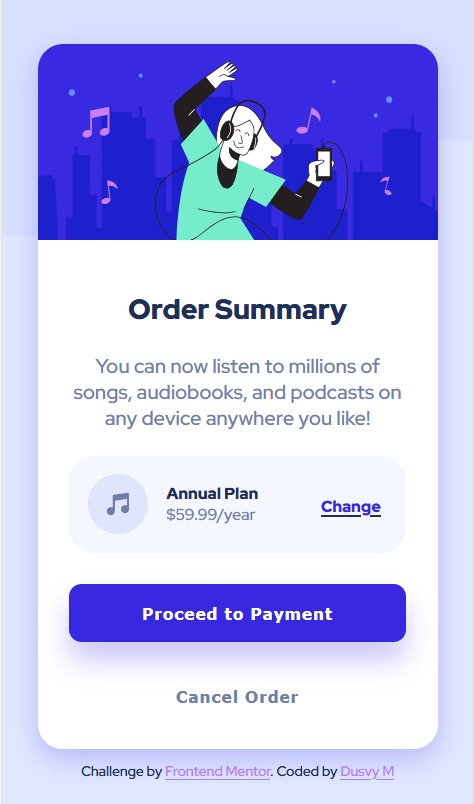
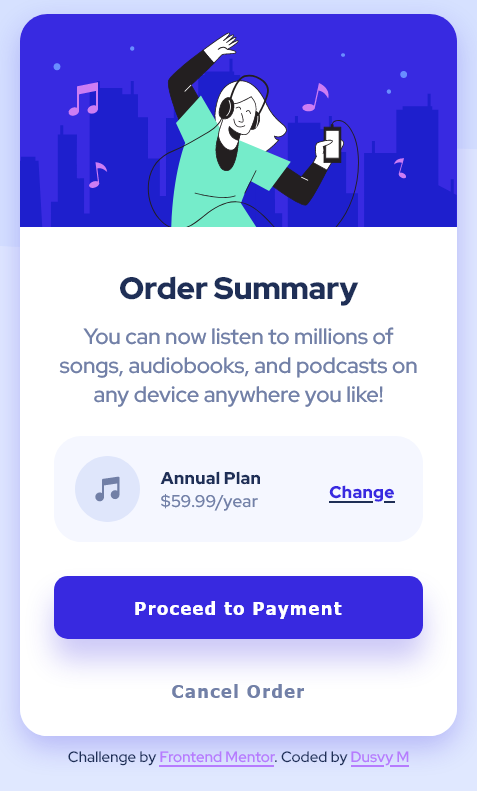
second changes

diff --git a/style.css b/style.css
@@ -31,7 +31,7 @@ body{
     font-family:var( --primary-font-family);
 }
 .card{
-    margin-top: 40px;
+    margin-top: 10px;
     display: flex;
     flex-direction: column;
     justify-content: center;
@@ -49,8 +49,8 @@ body{
     text-align: center;
 }
 .card-title{
-    padding-top:40px;
-    padding-bottom: 20px;
+    padding-top:30px;
+    padding-bottom: 10px;
     font-size: 1.5rem;
     font-weight: 900;
 }
@@ -98,6 +98,7 @@ body{
     color:var(--primary-color);
     font-weight: 900;
     text-decoration-color: var(--primary-font);
+	transition: all .2s ease;
  }
  .link:hover{
      color:var(--primary-color-active);
@@ -106,7 +107,7 @@ body{
  }
  .card-btn{
     margin-right:50px;
-    margin-bottom: 20px;
+    margin-bottom: 15px;
     margin-left: 50px;
     display: flex;
     flex-direction: column;
@@ -132,8 +133,8 @@ body{
      cursor: pointer;
  }
  .btn-cancel{
-    padding-top: 15px;
-    padding-bottom: 15px;
+    padding-top: 10px;
+    padding-bottom: 10px;
     background-color: transparent;
     color:var(--primary-font-active);
     border: none;
@@ -148,8 +149,8 @@ body{
 
 /*Footer*/
 footer{
-    margin-top: 10px;
-    margin-bottom: 10px;
+    margin-top: 8px;
+    margin-bottom: 5px;
 }
 .attribution {
      font-size: 11px; 

diff --git a/README.MD b/README.MD
@@ -27,7 +27,9 @@ Users should be able to:
 
 ### Screenshots
 
-![](https:/https://github.com/dusvimarin/FEM-order-summary-component/tree/main/screenshots/){
+![](https://github.com/dusvimarin/FEM-order-summary-component/blob/main/screenshots/order-summary-card-desktop.png)
+
+![](https://github.com/dusvimarin/FEM-order-summary-component/blob/main/screenshots/order-summary-card-mobile.png)
 
 
 ### Links
